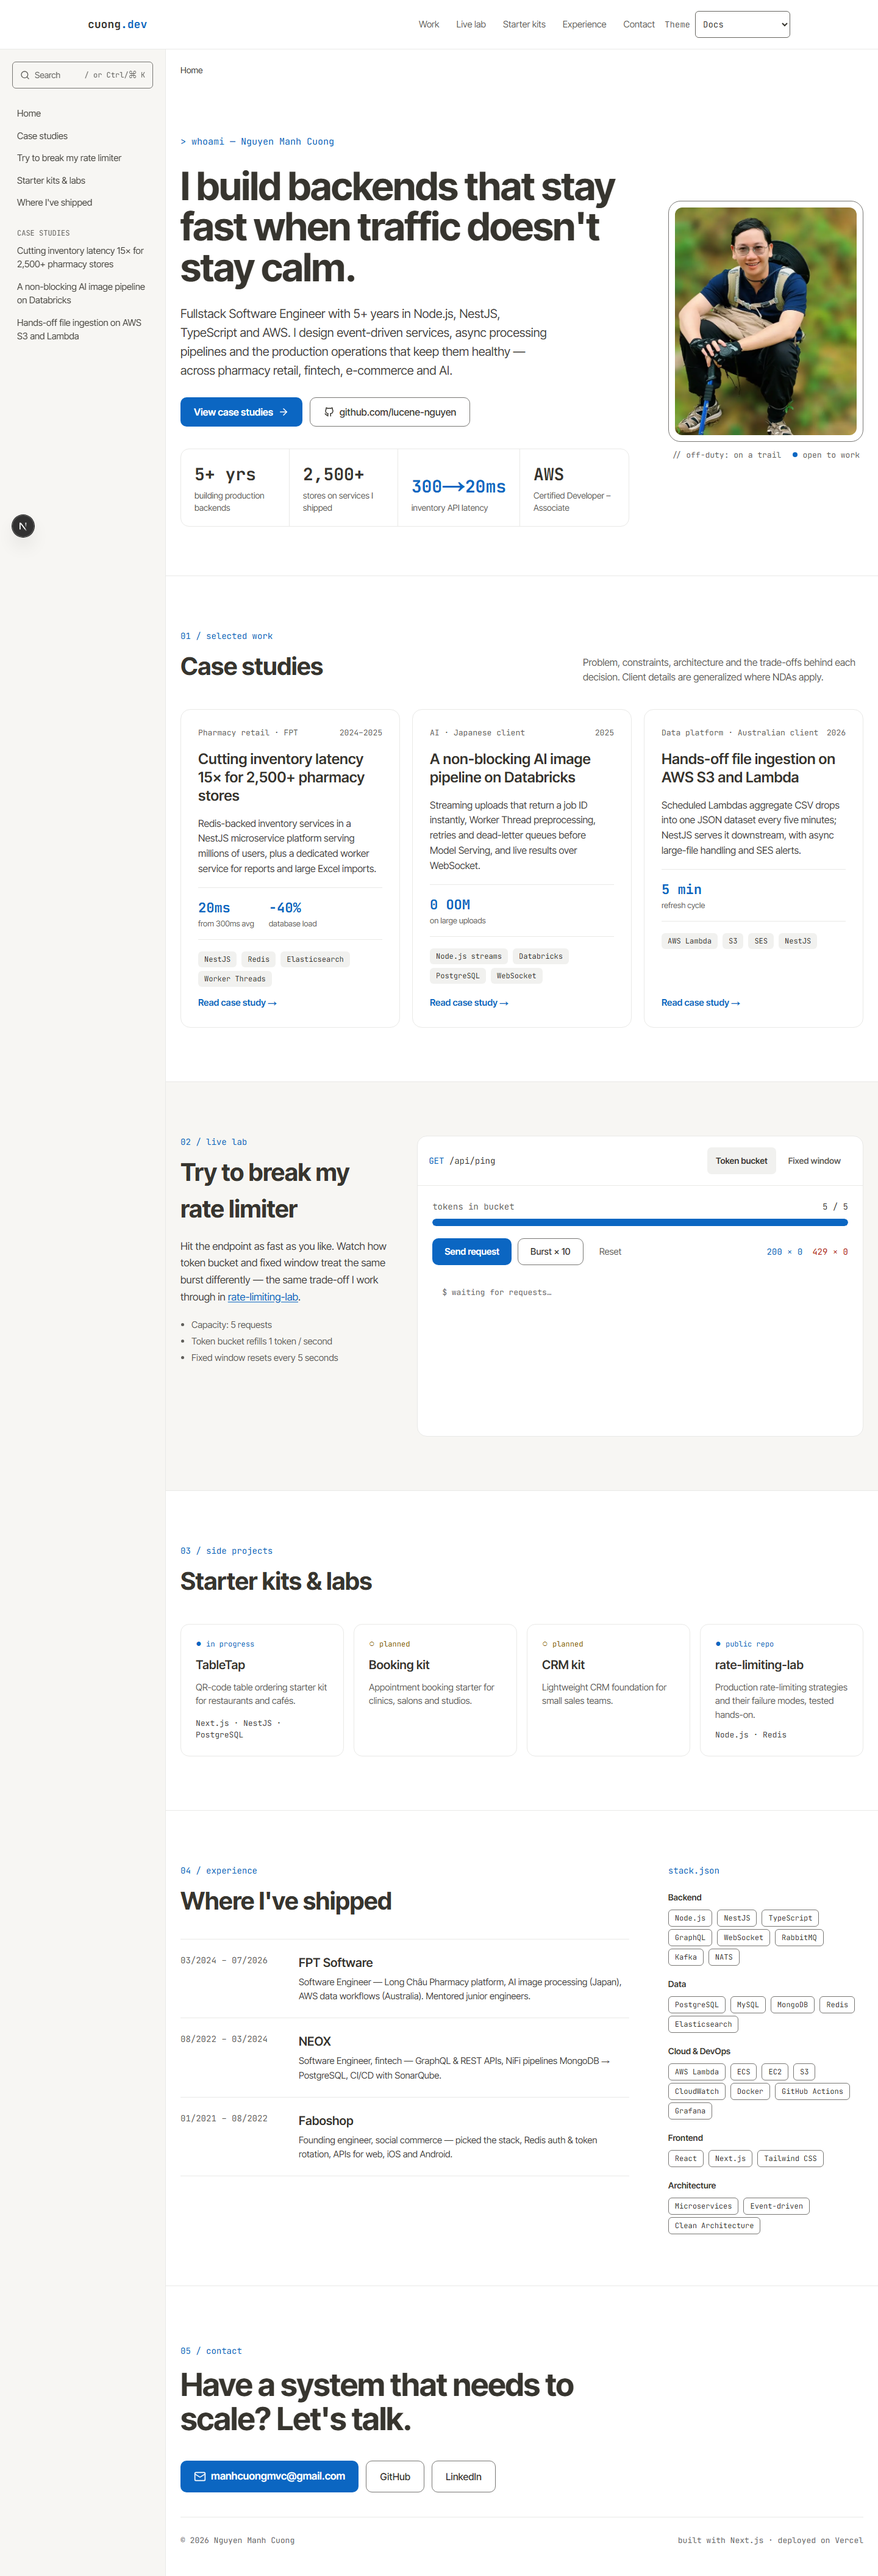
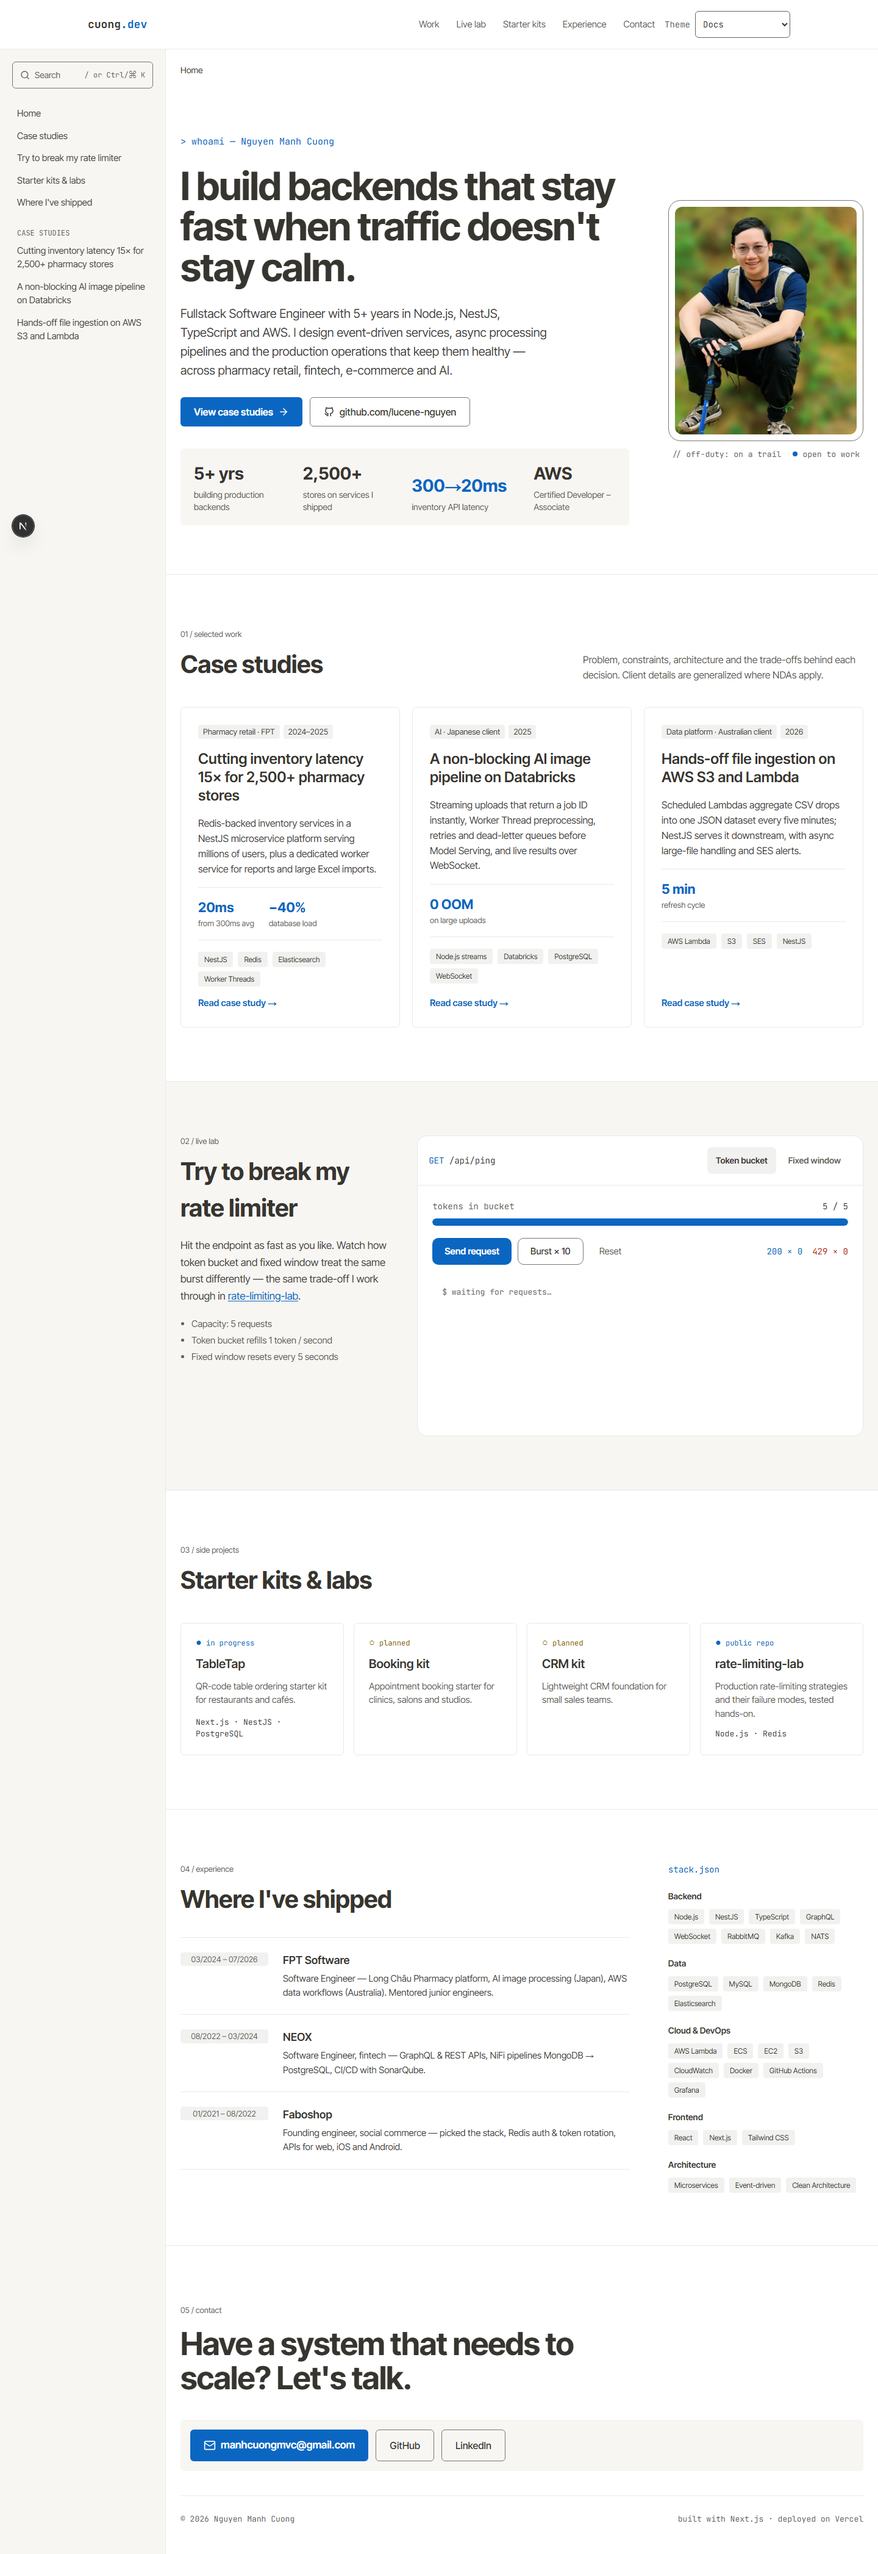
feat(ui): docs restyle - gallery cards with property chips, callouts, database list; screenshots

diff --git a/themes/docs/docs.css b/themes/docs/docs.css
@@ -1,0 +1,76 @@
+/* Notion-block language for the shared sections (design-system/portfolio-v3/pages/docs.md › Shared sections). */
+[data-theme="docs"] [data-part="eyebrow"] {
+  font-family: var(--font-sans);
+  font-size: 13px;
+  color: var(--text-muted);
+}
+
+/* Case studies + kits: gallery cards. */
+[data-theme="docs"] :is([data-part="case-card"], [data-part="kit"] > *) {
+  border-radius: 6px;
+  box-shadow: none;
+}
+[data-theme="docs"] [data-part="case-meta"] {
+  justify-content: flex-start;
+  flex-wrap: wrap;
+  gap: 6px;
+  font-family: var(--font-sans);
+}
+[data-theme="docs"] [data-part="case-meta"] > span {
+  padding: 2px 8px;
+  border-radius: 4px;
+  background: var(--surface2);
+  color: var(--text-secondary);
+}
+[data-theme="docs"] [data-part="case-metrics"] {
+  border-color: var(--border);
+}
+[data-theme="docs"] [data-part="case-metrics"] dd,
+[data-theme="docs"] [data-part="stat"] dd {
+  font-family: var(--font-sans);
+}
+[data-theme="docs"] :is([data-part="case-card"], [data-part="stack"]) ul span {
+  border: 0;
+  border-radius: 4px;
+  background: var(--surface2);
+  font-family: var(--font-sans);
+}
+
+/* Hero stats: callout block. */
+[data-theme="docs"] [data-part="stats"] {
+  border: 0;
+  border-radius: 6px;
+  background: var(--bg-alt);
+}
+[data-theme="docs"] [data-part="stat"] {
+  border-width: 0 !important; /* beats the cells' divider utilities */
+}
+
+/* Experience: database list. */
+[data-theme="docs"] [data-part="role"] {
+  border-color: var(--border) !important;
+}
+[data-theme="docs"] [data-part="role"] > span:first-child {
+  align-self: flex-start;
+  /* Same width for every period chip so the titles line up (beats flex-[0_0_170px]). */
+  flex: 0 0 9rem !important;
+  text-align: center;
+  padding: 2px 8px;
+  border-radius: 4px;
+  background: var(--surface2);
+  font-family: var(--font-sans);
+  font-size: 13px;
+}
+[data-theme="docs"] [data-part="role"] h3 {
+  font-size: 18px;
+}
+
+/* Contact: callout block. */
+[data-theme="docs"] [data-part="contact-actions"] {
+  padding: 16px;
+  border-radius: 6px;
+  background: var(--bg-alt);
+}
+[data-theme="docs"] [data-part="button"] {
+  border-radius: 6px;
+}

diff --git a/e2e/docs.spec.ts b/e2e/docs.spec.ts
@@ -1,5 +1,11 @@
 import AxeBuilder from "@axe-core/playwright";
 import { expect, test, type Page } from "@playwright/test";
+import { docs } from "../themes/docs";
+
+const rgb = (hex: string) => {
+  const n = parseInt(hex.slice(1), 16);
+  return `rgb(${n >> 16}, ${(n >> 8) & 255}, ${n & 255})`;
+};
 
 async function ready(page: Page, path = "/?theme=docs") {
   await page.goto(path);
@@ -106,4 +112,24 @@ test("desktop axe clean with search open", async ({ page }) => {
   await expect(dialog(page).getByRole("option").first()).toBeVisible();
   const { violations } = await new AxeBuilder({ page }).exclude("nextjs-portal").analyze();
   expect(violations.map((v) => v.id)).toEqual([]);
+});
+
+test("shared sections are restyled as Notion blocks", async ({ page }) => {
+  await ready(page);
+  await expect(page.locator('[data-part="case-card"]').first()).toHaveCSS(
+    "border-top-left-radius",
+    "6px",
+  );
+  await expect(page.locator('[data-part="case-meta"] > span').first()).toHaveCSS(
+    "background-color",
+    rgb(docs.tokens.surface2),
+  );
+  await expect(page.locator('[data-part="stats"]')).toHaveCSS(
+    "background-color",
+    rgb(docs.tokens.bgAlt),
+  );
+  await expect(page.locator('[data-part="contact-actions"]')).toHaveCSS(
+    "background-color",
+    rgb(docs.tokens.bgAlt),
+  );
 });

diff --git a/app/layout.tsx b/app/layout.tsx
@@ -14,6 +14,7 @@ import "@/themes/anime/anime.css";
 import "@/themes/blueprint/blueprint.css";
 import "@/themes/cyberpunk/cyberpunk.css";
 import "@/themes/dashboard/dashboard.css";
+import "@/themes/docs/docs.css";
 import "@/themes/editorial/editorial.css";
 import "@/themes/ide/ide.css";
 import "@/themes/neo-brutalism/neo.css";

diff --git a/design-system/portfolio-v3/pages/docs.md b/design-system/portfolio-v3/pages/docs.md
@@ -39,3 +39,19 @@
 ## Search
 - Index: `/search-index.json`, generated at build time from `content/` (home content + one entry per case-study section); fetched on first open.
 - Opens with `/` or Ctrl/Cmd+K; combobox + listbox (arrow keys, Enter opens, Esc closes and restores focus); result count announced.
+
+### Shared sections (UI round 1)
+> ui-ux-pro-max: `"documentation knowledge base" --domain landing`, `"documentation readability navigation" --domain ux`.
+
+**Section order:** Hero → Case studies → Live lab → Starter kits → Experience + stack → Contact (in the docs content column).
+- Verified: landing **FAQ/Documentation** — prominent search (sidebar + `/`) and the contact CTA last.
+- Verified (ux): sticky navigation never overlaps content (sidebar sits beside it); body line-height 1.5–1.75; formatted numbers.
+- Rejected: FAQ accordions (the portfolio content isn't Q&A); emoji callout icons (checklist: no emoji as icons).
+
+**How the shared sections look** (Notion blocks)
+- Eyebrows → quiet grey section labels (sans, 13px, no caps).
+- Case study cards → **gallery cards**: 6px radius, 1px border, no shadow; meta line as property chips; tags as multi-select pills (`surface2`, 4px radius).
+- Hero stats → **callout block**: `bgAlt` fill, 6px radius, no dividers.
+- Experience → **database list**: rows with the period as a property chip, 18px titles, hairline separators.
+- Contact → **callout block** around the actions.
+- Starter kits → gallery cards like the case studies.

diff --git a/docs/ui-round-1.md b/docs/ui-round-1.md
@@ -16,7 +16,7 @@ Per theme (item 2): ui-ux-pro-max `--domain landing` + `--domain ux` → "## Lay
 | 2 night-terminal | done | `fix/ui-night-terminal` |
 | 2 dashboard | done | `fix/ui-dashboard` |
 | 2 ide | done | `fix/ui-ide` |
-| 2 docs | todo | `fix/ui-docs` |
+| 2 docs | done | `fix/ui-docs` |
 | 2 bento | todo | `fix/ui-bento` |
 | 2 neo-brutalism | todo | `fix/ui-neo-brutalism` |
 | 2 anime | todo | `fix/ui-anime` |
